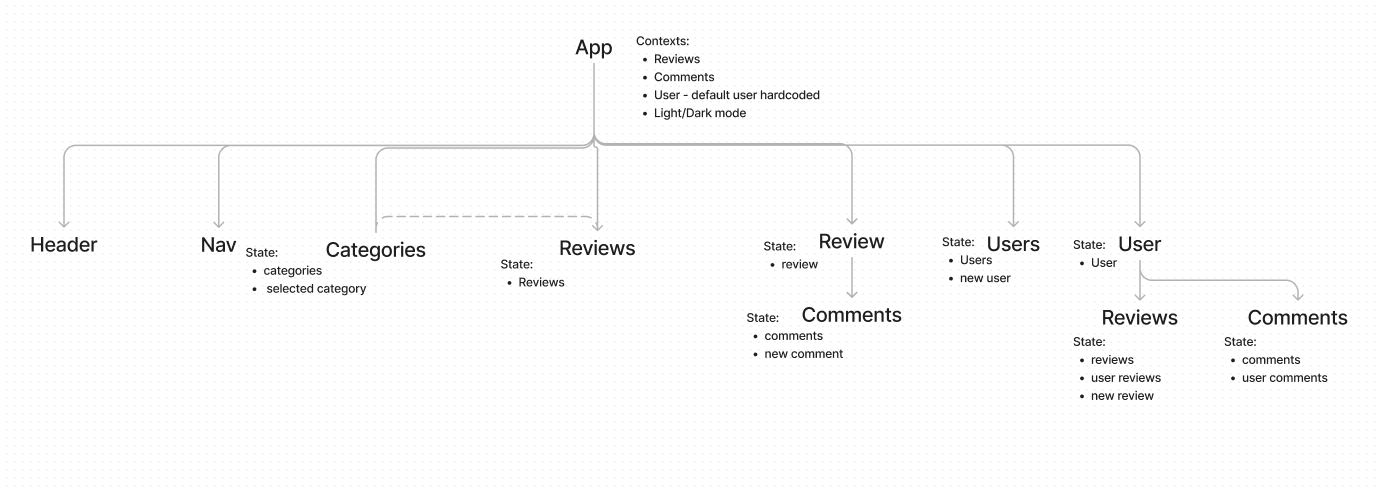
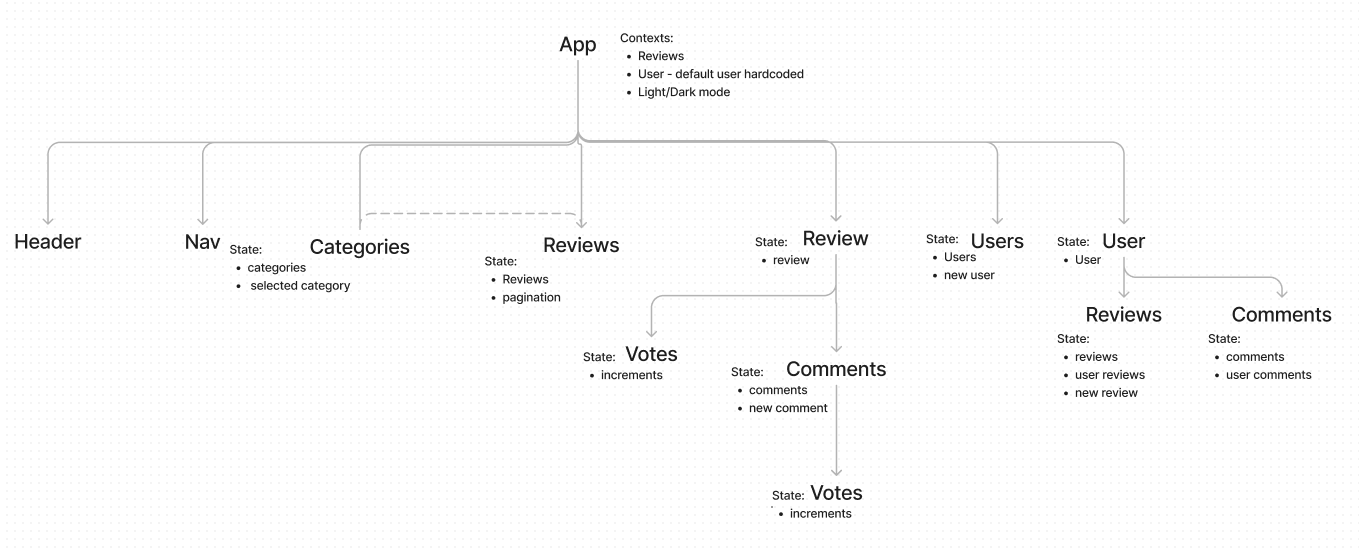
styling for review page

diff --git a/src/components/Votes.jsx b/src/components/Votes.jsx
@@ -1,5 +1,5 @@
 import { useEffect, useState } from "react";
-import { patchReviewVotes } from "./api";
+import { patchCommentVotes, patchReviewVotes } from "./api";
 
 const Votes = ({ type, review, comment }) => {
   const [reviewIncrement, setReviewIncrement] = useState(0);
@@ -11,10 +11,15 @@ const Votes = ({ type, review, comment }) => {
   }, []);
 
   useEffect(() => {
-    patchReviewVotes(reviewIncrement, review.review_id).catch((err) => {
-      if (err) setReviewIncrement(0);
-    });
-  }, [reviewIncrement]);
+    if (type === "review")
+      patchReviewVotes(reviewIncrement, review.review_id).catch((err) => {
+        if (err) setReviewIncrement(0);
+      });
+    if (type === "comment")
+      patchCommentVotes(commentIncrement, comment.comment_id).catch((err) => {
+        if (err) setCommentIncrement(0);
+      });
+  }, [reviewIncrement, commentIncrement]);
 
   const handleVote = (upOrDown) => {
     if (upOrDown === "up") {
@@ -25,24 +30,36 @@ const Votes = ({ type, review, comment }) => {
   };
 
   return (
-    <>
-      {type === "review" && <p>Votes: {review.votes + reviewIncrement}</p>}
-      {type === "comment" && <p>Votes: {comment.votes + commentIncrement}</p>}
+    <section className="Votes">
+      {type === "review" && (
+        <p>
+          <strong>Votes: </strong>
+          {review.votes + reviewIncrement}
+        </p>
+      )}
+      {type === "comment" && (
+        <p>
+          <strong>Votes: </strong>
+          {comment.votes + commentIncrement}
+        </p>
+      )}
       <button
+        className="Vote--Button"
         onClick={() => {
           handleVote("up");
         }}
       >
-        👍
+        ▲
       </button>
       <button
+        className="Vote--Button"
         onClick={() => {
           handleVote("down");
         }}
       >
-        👎
+        ▼
       </button>
-    </>
+    </section>
   );
 };
 

diff --git a/src/App.css b/src/App.css
@@ -4,13 +4,42 @@
   box-sizing: border-box;
 }
 
+/* 
+#2C3A3C - grey
+#39706C - green
+#4AAAC1 - blue
+#B5C8BD - light grey
+#ECDC75 - yellow */
+
 header {
   position: fixed;
   top: 0;
   height: 100px;
   width: 100vw;
   border: 1px solid black;
-  background: rgb(67, 67, 150);
+  background: #2c3a3c;
+}
+
+h1 {
+  color: #b5c8bd;
+  margin: 10px;
+}
+
+h3,
+strong {
+  color: #39706c;
+}
+
+a {
+  text-decoration: none;
+  color: #b5c8bd;
+  border: 1px solid #b5c8bd;
+  padding: 4px;
+  border-radius: 3px;
+}
+
+nav {
+  margin: 10px;
 }
 
 main {
@@ -49,6 +78,9 @@ main {
   grid-template-rows: 50% 50%;
   gap: 20px;
   padding: 20px;
+  background-color: #b5c8bd;
+  margin: 5px;
+  border-radius: 5px;
 }
 
 .Review--Img {
@@ -56,6 +88,8 @@ main {
   max-height: 50vh;
   grid-column: 1;
   grid-row: 1;
+  border-radius: 5px;
+  box-shadow: 0px 0px 5px 0 black;
 }
 .Review--About {
   grid-column: 2;
@@ -72,10 +106,12 @@ main {
 }
 
 .Comments {
+  grid-column: span 2;
   display: flex;
   flex-direction: column;
   justify-items: center;
   align-items: center;
+  margin: 10px;
 }
 
 .Comments--List {
@@ -86,7 +122,35 @@ main {
   gap: 10px;
 }
 
-.Comments--List li {
+.Comment {
   border: 1px solid grey;
   width: 100%;
+  display: flex;
+  flex-direction: column;
+  background-color: #d6e7dd;
+}
+
+.Comment--Header {
+  grid-row: 1;
+  display: flex;
+  gap: 5px;
+}
+
+.Comment--Body {
+  grid-row: 2;
+}
+
+.Votes {
+  display: flex;
+}
+.Vote--Button {
+  background: none;
+  border: none;
+  font-size: 0.8rem;
+  margin-left: 2px;
+}
+
+.Vote--Button:hover {
+  color: #39706c;
+  cursor: pointer;
 }

diff --git a/src/components/Comments.jsx b/src/components/Comments.jsx
@@ -26,11 +26,13 @@ const Comments = ({ review_id }) => {
         <ul className="Comments--List">
           {comments.map((comment) => {
             return (
-              <li key={comment.comment_id}>
-                <h4>{comment.author}</h4>
-                <p>at {comment.created_at}</p>
-                <Votes type="comment" comment={comment} />
-                <p>{comment.body}</p>
+              <li key={comment.comment_id} className="Comment">
+                <section className="Comment--Header">
+                  <h4>{comment.author}</h4>
+                  <p>On {comment.created_at.slice(0, 10)}</p>
+                  <Votes type="comment" comment={comment} />
+                </section>
+                <p className="Comment--Body">{comment.body}</p>
               </li>
             );
           })}

diff --git a/src/components/Review.jsx b/src/components/Review.jsx
@@ -36,8 +36,12 @@ const Review = () => {
         <section className="Review--Body">
           <h3>Review:</h3>
           <p>{review.review_body}</p>
-          <p>Review by: {review.owner}</p>
-          <p>Reviewed on: {review.created_at.slice(0, 10)}</p>
+          <p>
+            <strong>Review by:</strong> {review.owner}
+          </p>
+          <p>
+            <strong>Reviewed on:</strong> {review.created_at.slice(0, 10)}
+          </p>
           <Votes type="review" review={review} />
         </section>
         <Comments review_id={review_id} />

diff --git a/src/components/api.js b/src/components/api.js
@@ -31,3 +31,11 @@ export const patchReviewVotes = (voteIncrement, review_id) => {
       return response.data.review.votes;
     });
 };
+
+export const patchCommentVotes = (voteIncrement, comment_id) => {
+  return reviewsAPI
+    .patch(`/comments/${comment_id}`, { inc_votes: voteIncrement })
+    .then((response) => {
+      return response.data.comment.votes;
+    });
+};

diff --git a/src/components/Nav.jsx b/src/components/Nav.jsx
@@ -2,11 +2,13 @@ import { Link } from "react-router-dom";
 
 const Nav = () => {
   return (
-    <ul>
-      <li>
-        <Link to="/">Reviews</Link>
-      </li>
-    </ul>
+    <nav>
+      <ul>
+        <li>
+          <Link to="/">Reviews</Link>
+        </li>
+      </ul>
+    </nav>
   );
 };
 
